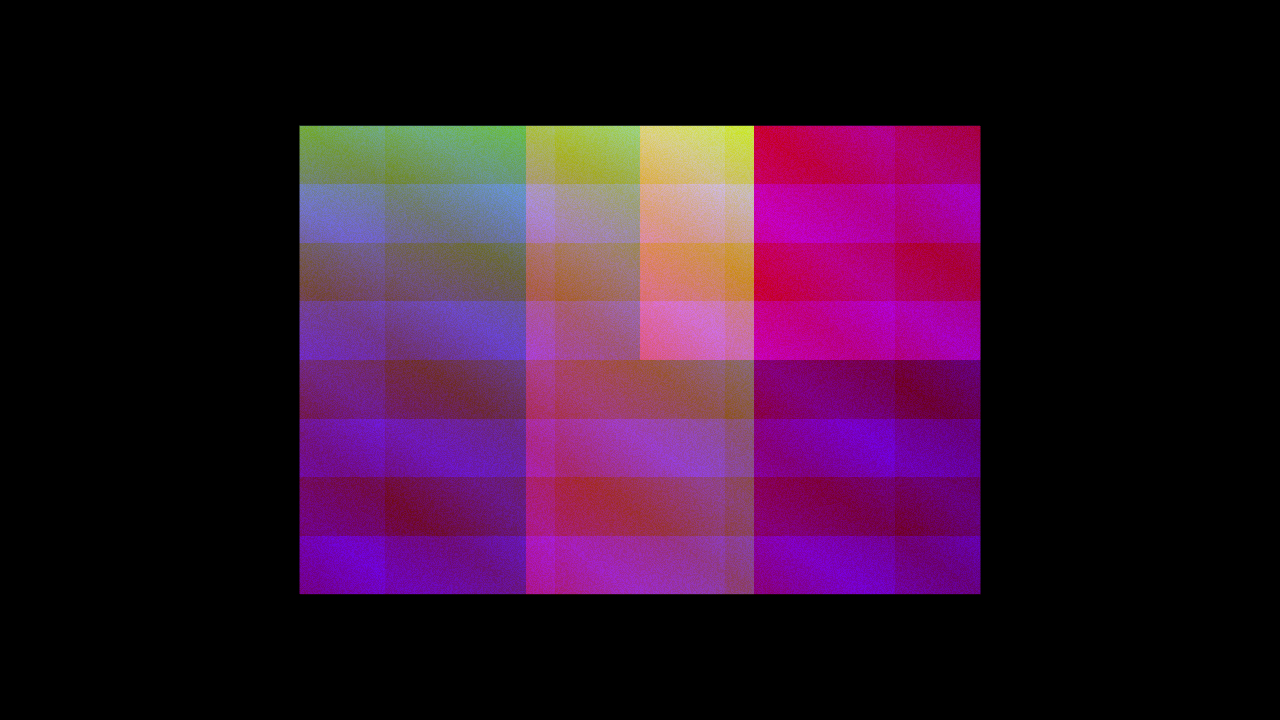
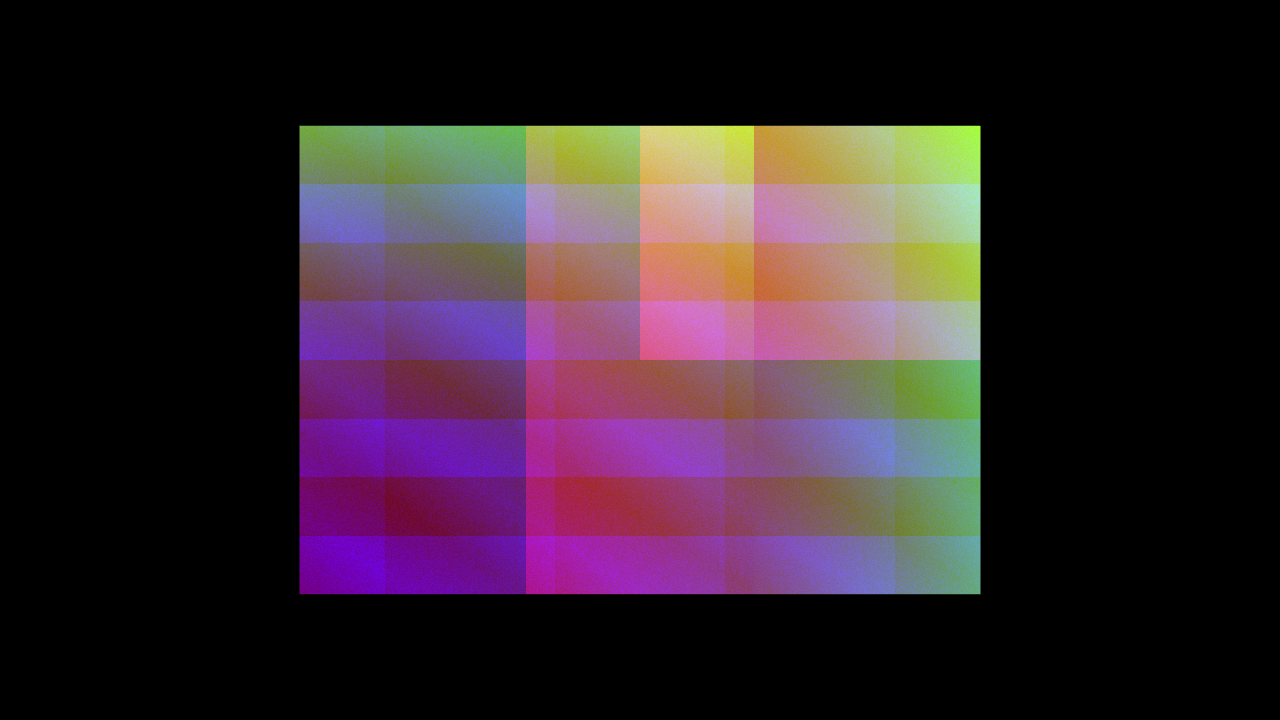
Make scene79 NME parity deterministic
Replace the backend-dependent EaseOutBack coverage with EaseInBack so the scene no longer depends on WGSL pow behavior for negative bases. Refresh the Scene 79 golden and thumbnail for the intentional output change.

Changed region(s): [[0.5625, 0.1528, 0.7812, 0.825]]

diff --git a/lab/src/shared/scene79-nme.ts b/lab/src/shared/scene79-nme.ts
@@ -159,8 +159,8 @@ const red = binary("DivideBlock", "RedAverage", rSumB, three);
 
 const curveInOutSine = curve("CurveEaseInOutSineX", 2, uvSplit, "x");
 const curveInQuad = curve("CurveEaseInQuadY", 3, uvSplit, "y");
-const curveOutBack = curve("CurveEaseOutBackX", 22, uvSplit, "x");
-const condLe = conditional("CondCurveLessOrEqual", 4, uvSplit, twoThirds, curveInQuad, curveOutBack, "x");
+const curveInBack = curve("CurveEaseInBackX", 21, uvSplit, "x");
+const condLe = conditional("CondCurveLessOrEqual", 4, uvSplit, twoThirds, curveInQuad, curveInBack, "x");
 const gSumA = binary("AddBlock", "GAddSineConditional", curveInOutSine, condLe);
 const gSumB = binary("AddBlock", "GAddQuad", gSumA, curveInQuad);
 const green = binary("DivideBlock", "GreenAverage", gSumB, three);